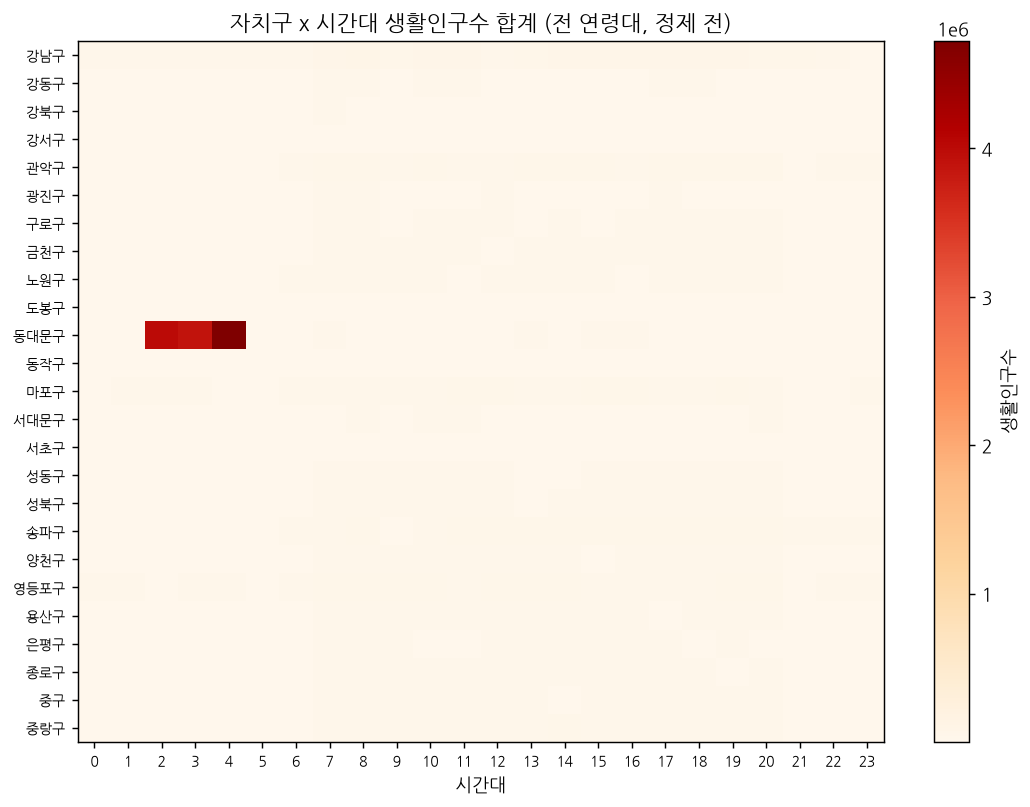
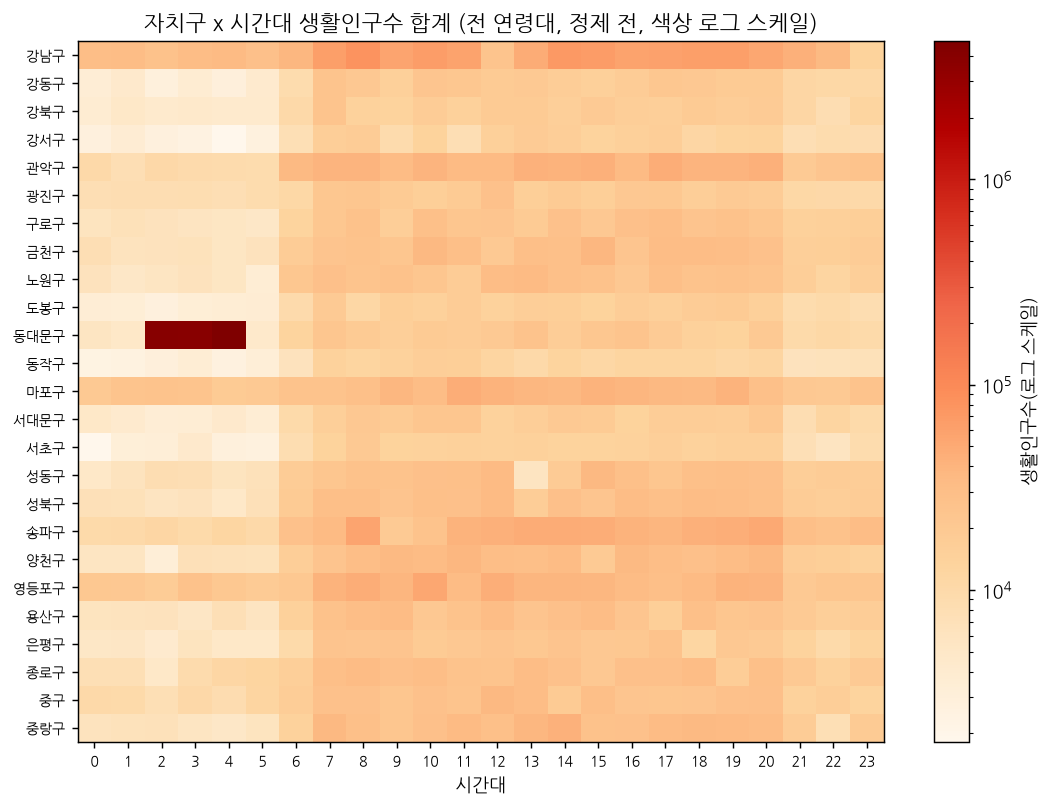
반대결과 수용 조항 적용, 품질진단·정제순서 보고서화, 시각화 2종 추가
- 00_가설_질문정의.md / report: 관악구·영등포구 반대결과에 조항을 적용한 판정 추가
- report: 컬럼 자료형 표, 6대 품질진단 표, 정제 원칙·순서 표를 섹션 3·4 앞부분에 삽입
- 정제로그: 전체적용 vs 범위한정 정제 기준("명백한 오류 교정 vs 모르는 값 추정") 설명 추가
- AI활용기록: STEP② 콤마/'-' 전수확인 관련 기록 추가
- 노트북: 히트맵 색상 스케일 선형→로그 수정, STEP②에 콤마/'-' 전수확인 코드 추가, 결론 셀에 반대결과 조항 적용 문단 추가
- figures: 분모보정 전후 순위변동 리더보드(13), 이슈별 추적표 카드형 시각화(14) 추가
- slides: 정제 추적표 html/png 추가

diff --git a/slides/정제_추적표.html b/slides/정제_추적표.html
@@ -1,0 +1,206 @@
+<title>정제 단계별 이슈 추적표</title>
+<link rel="preconnect" href="https://fonts.googleapis.com">
+<link rel="stylesheet" href="https://fonts.googleapis.com/css2?family=IBM+Plex+Sans+KR:wght@400;500;600;700&family=IBM+Plex+Mono:wght@500;600&display=swap">
+<style>
+/* Layout: 16:9 slide — 왼쪽 단계별 색 구분 표, 오른쪽 A~E 해설 레일. 발표 자료용으로 밝은 단일 테마. */
+:root {
+  color-scheme: light;
+  --paper: #fbfbfa;
+  --ink: #1d2430;
+  --muted: #6b7280;
+  --faint: #c3c8cf;
+  --rule: #e3e6ea;
+  /* stage colors */
+  --s1: #5b6472;  --s1-bg: #eef0f3;  --s1-tint: #f6f7f8;
+  --s2: #2f5fb3;  --s2-bg: #e3ecfb;  --s2-tint: #f3f7fe;
+  --s3: #1f8a5b;  --s3-bg: #ddf3e8;  --s3-tint: #f1faf5;
+  /* highlight semantics */
+  --ok: #1f8a5b;  --ok-bg: #c9eedb;
+  --keep: #a86400; --keep-bg: #fde9c4;
+  --hot: #c2412d;  --hot-bg: #fbe0da;
+  --f-sans: "IBM Plex Sans KR", "Malgun Gothic", "Apple SD Gothic Neo", system-ui, sans-serif;
+  --f-num: "IBM Plex Mono", ui-monospace, Consolas, monospace;
+}
+body { background: var(--paper); color: var(--ink); font-family: var(--f-sans); padding-inline: 16px; padding-block: 16px; }
+.frame { overflow-x: auto; }
+.slide { width: 1600px; height: 900px; margin: 0 auto; box-sizing: border-box; padding: 40px 56px 28px; background: var(--paper);
+  display: grid; grid-template-rows: auto 1fr auto; gap: 20px; }
+
+header { display: grid; gap: 14px; }
+.eyebrow { font-size: 15px; font-weight: 600; letter-spacing: .08em; color: var(--muted); margin: 0 0 8px; }
+h1 { white-space: nowrap; font-size: 36px; font-weight: 700; margin: 0; letter-spacing: -.01em; text-wrap: balance; }
+h1 em { font-style: normal; color: var(--s3); }
+.legend { display: flex; gap: 22px; font-size: 15px; color: var(--ink); flex-wrap: wrap; }
+.legend span { display: inline-flex; align-items: center; gap: 8px; }
+.sw { width: 30px; height: 20px; border-radius: 4px; display: inline-grid; place-items: center; font: 600 12px var(--f-num); }
+.sw.ok { background: var(--ok-bg); color: var(--ok); box-shadow: inset 0 0 0 2px var(--ok); }
+.sw.keep { background: var(--keep-bg); color: var(--keep); box-shadow: inset 0 0 0 2px var(--keep); }
+.sw.hot { background: var(--hot-bg); color: var(--hot); }
+.sw.z { background: transparent; color: var(--faint); box-shadow: inset 0 0 0 1px var(--rule); }
+
+.body { display: grid; grid-template-columns: 1fr 380px; gap: 32px; min-height: 0; }
+
+table { width: 100%; border-collapse: separate; border-spacing: 0; font-variant-numeric: tabular-nums; }
+th, td { text-align: center; }
+thead .stage th { font-size: 17px; font-weight: 700; color: #fff; padding: 10px 8px; position: relative; }
+thead .stage th.blank { background: transparent; }
+.st1 { background: var(--s1); border-radius: 10px 10px 0 0; }
+.st2 { background: var(--s2); border-radius: 10px 10px 0 0; }
+.st3 { background: var(--s3); border-radius: 10px 10px 0 0; }
+.stage small { display: block; font-weight: 500; font-size: 13px; opacity: .85; margin-top: 2px; }
+thead .sub th { font-size: 13.5px; font-weight: 600; padding: 8px 4px; line-height: 1.25; }
+.sub .c1 { background: var(--s1-bg); color: var(--s1); }
+.sub .c2 { background: var(--s2-bg); color: var(--s2); }
+.sub .c3 { background: var(--s3-bg); color: var(--s3); }
+.gap { width: 14px; padding: 0 !important; background: transparent !important; }
+
+tbody th { text-align: left; font-size: 16px; font-weight: 600; padding: 0 14px 0 4px; white-space: nowrap; border-bottom: 1px solid var(--rule); }
+tbody th.child { font-weight: 500; color: var(--muted); padding-left: 22px; }
+tbody tr.ref th, tbody tr.ref td { color: var(--muted); font-weight: 500; border-bottom: 2px solid var(--faint); }
+tbody tr.ref th small { font-weight: 500; font-size: 12px; margin-left: 6px; }
+tbody td { font: 500 19px var(--f-num); height: 45px; padding: 0 6px; border-bottom: 1px solid var(--rule); position: relative; }
+tbody td.c1 { background: var(--s1-tint); }
+tbody td.c2 { background: var(--s2-tint); }
+tbody td.c3 { background: var(--s3-tint); }
+td.in { font-weight: 600; }
+td.z { color: var(--faint); font-weight: 500; }
+td.dot { color: var(--faint); }
+.pill { display: inline-grid; place-items: center; min-width: 54px; height: 34px; padding: 0 8px; border-radius: 8px; box-sizing: border-box; }
+td.ok .pill { background: var(--ok-bg); color: var(--ok); box-shadow: inset 0 0 0 2px var(--ok); font-weight: 600; }
+td.keep .pill { background: var(--keep-bg); color: var(--keep); box-shadow: inset 0 0 0 2px var(--keep); font-weight: 600; }
+td.hot .pill { background: var(--hot-bg); color: var(--hot); font-weight: 600; }
+.badge { position: absolute; top: 3px; right: 3px; width: 19px; height: 19px; border-radius: 50%; background: var(--ink); color: #fff;
+  font: 700 11.5px/19px var(--f-sans); text-align: center; }
+.flow { font: 600 13px var(--f-sans); color: var(--muted); }
+
+aside { display: flex; flex-direction: column; gap: 9px; min-width: 0; }
+aside h2 { font-size: 15px; font-weight: 700; letter-spacing: .08em; color: var(--muted); margin: 0 0 2px; }
+.note { display: grid; grid-template-columns: 26px 1fr; gap: 12px; align-items: start; padding: 9px 14px; border-radius: 10px; background: #fff; border: 1px solid var(--rule); }
+.note b.k { width: 26px; height: 26px; border-radius: 50%; background: var(--ink); color: #fff; display: grid; place-items: center; font-size: 13px; }
+.note p { margin: 0; font-size: 14px; line-height: 1.45; }
+.note p strong { font-weight: 700; }
+.note .t { display: block; font-weight: 700; font-size: 15.5px; margin-bottom: 3px; }
+.note.ok { border-color: var(--ok); }
+.note.keep { border-color: var(--keep); }
+.note .t.ok { color: var(--ok); } .note .t.keep { color: var(--keep); } .note .t.hot { color: var(--hot); }
+.eq { font-family: var(--f-num); font-weight: 600; background: var(--keep-bg); padding: 1px 6px; border-radius: 4px; white-space: nowrap; }
+
+footer { display: flex; justify-content: space-between; gap: 24px; font-size: 13px; color: var(--muted); border-top: 1px solid var(--rule); padding-top: 12px; }
+footer code { font-family: var(--f-num); color: var(--ink); }
+</style>
+
+<div class="frame">
+<div class="slide">
+  <header>
+    <div>
+      <p class="eyebrow">STEP④ 정제 · 이슈별 건수 단계별 추적 · 범위 = 15·16·17시</p>
+      <h1>범위 안 문제는 <em>모두 0건</em>으로, 범위 밖은 이유를 남기고 그대로</h1>
+    </div>
+    <div class="legend">
+      <span><i class="sw ok">0</i>정제로 해결</span>
+      <span><i class="sw keep">18</i>범위 밖 · 의도적으로 유지</span>
+      <span><i class="sw hot">7</i>결과를 왜곡하는 값</span>
+      <span><i class="sw z">0</i>원래 없음</span>
+    </div>
+  </header>
+
+  <div class="body">
+    <table id="t">
+      <thead>
+        <tr class="stage">
+          <th class="blank"></th>
+          <th colspan="3" class="st1">① 원본<small>3,860행</small></th>
+          <th class="gap"></th>
+          <th colspan="3" class="st2">② 중복 제거 후<small>3,600행 · 260행 제거</small></th>
+          <th class="gap"></th>
+          <th colspan="3" class="st3">③ 정제 후 (잔여)<small>음수 복원 · 범위 안 결측 보정</small></th>
+        </tr>
+        <tr class="sub">
+          <th class="blank" style="text-align:left;padding-left:4px;color:var(--muted)">이슈</th>
+          <th class="c1">전체</th><th class="c1">범위<br>전 연령(분모)</th><th class="c1">범위<br>10대(분자)</th>
+          <th class="gap"></th>
+          <th class="c2">전체</th><th class="c2">범위<br>전 연령(분모)</th><th class="c2">범위<br>10대(분자)</th>
+          <th class="gap"></th>
+          <th class="c3">전체</th><th class="c3">범위<br>전 연령(분모)</th><th class="c3">범위<br>10대(분자)</th>
+        </tr>
+      </thead>
+      <tbody></tbody>
+    </table>
+
+    <aside>
+      <h2>읽는 법</h2>
+      <div class="note"><b class="k">A</b><p><span class="t hot">중복 7행이 10대 합계를 부풀림</span>범위 안 10대 중복 7행을 지우지 않으면 절대(10대 합계)가 그만큼 커집니다. 제거 후 75행 = 25구 × 3시간대로 기대값과 일치.</p></div>
+      <div class="note"><b class="k">B</b><p><span class="t">10대 결측은 처음부터 0건</span>빈칸·<code>'-'</code> 모두 범위 안 10대는 0건이라 절대(분자)는 보정할 것이 없습니다. 10대 <code>'-'</code> 35건은 전부 범위 밖.</p></div>
+      <div class="note ok"><b class="k">C</b><p><span class="t ok">분모 결측 22건 → 0건</span>빈칸 13 + <code>'-'</code> 9건이 비중의 분모(전 연령)에 있어, 같은 구·연령대의 15~17시 평균으로 보정했습니다. 안 하면 비중이 부풀려집니다.</p></div>
+      <div class="note keep"><b class="k">D</b><p><span class="t keep">남은 결측 159건은 전부 범위 밖</span><span class="eq">180 − 22 + 1 = 159</span> (−9990을 결측으로 바꾼 1건 포함). 결과에 쓰이지 않아 추정값으로 채우지 않았습니다.</p></div>
+      <div class="note keep"><b class="k">E</b><p><span class="t keep">동대문구 새벽 고값 18건은 수정 안 함</span>2~4시에만 있는 단위 오류 추정값. 15~17시 밖이라 절대·비중 어디에도 영향이 없어 그대로 둡니다.</p></div>
+    </aside>
+  </div>
+
+  <footer>
+    <span><code>·</code> 숫자 변환 후에는 빈칸과 <code>'-'</code>를 구분할 수 없어 따로 세지 않음(결측 합계 줄로 확인) &nbsp;|&nbsp; <code>0</code> 센 결과 남은 게 없음</span>
+    <span>데이터: 교육용 가공 데이터(오류 의도 삽입), 기준일 2026-04-15 하루 · 14조 미션D</span>
+  </footer>
+</div>
+</div>
+
+<script>
+// [이슈, 하위행 여부, ①전체, ①범위, ①10대, ②전체, ②범위, ②10대, ③전체, ③범위, ③10대]  — logs/정제로그.md 5절과 동일
+const rows = [
+  ["(참고) 행 수", "ref", 3860, 485, 82, 3600, 450, 75, 3600, 450, 75],
+  ["완전 중복 행(2회째)", "", 260, 35, 7, 0, 0, 0, 0, 0, 0],
+  ["결측 합계", "", 195, 27, 0, 180, 22, 0, 159, 0, 0],
+  ["└ 빈칸", "child", 95, 15, 0, 89, 13, 0, "·", "·", "·"],
+  ["└ '-'", "child", 100, 12, 0, 91, 9, 0, "·", "·", "·"],
+  ["음수(부호 오류 추정)", "", 23, 2, 0, 22, 2, 0, 0, 0, 0],
+  ["특수코드 −9990", "", 2, 0, 0, 1, 0, 0, 0, 0, 0],
+  ["고값(>10만, 동대문 새벽)", "", 19, 0, 0, 18, 0, 0, 18, 0, 0],
+  ["콤마 포함(형식)", "", 360, 50, 6, 338, 47, 5, 0, 0, 0],
+];
+// 강조 셀: [행, 열(0~8)] → 종류 · 배지
+const marks = {
+  "1,2": ["hot", "A"],
+  "2,2": ["", "B"],
+  "2,7": ["ok", "C"],
+  "2,6": ["keep", "D"],
+  "7,6": ["keep", "E"],
+};
+const fmt = v => typeof v === "number" ? v.toLocaleString("ko-KR") : v;
+const tb = document.querySelector("#t tbody");
+rows.forEach((r, ri) => {
+  const [label, kind, ...vals] = r;
+  const tr = document.createElement("tr");
+  if (kind === "ref") tr.className = "ref";
+  const th = document.createElement("th");
+  th.textContent = label;
+  if (kind === "child") th.className = "child";
+  if (kind === "ref") th.innerHTML = '(참고) 행 수<small>기대값 3,600 / 450 / 75</small>';
+  tr.appendChild(th);
+  vals.forEach((v, ci) => {
+    if (ci === 3 || ci === 6) { const g = document.createElement("td"); g.className = "gap"; tr.appendChild(g); }
+    const td = document.createElement("td");
+    const stage = Math.floor(ci / 3) + 1, sub = ci % 3;
+    const cls = ["c" + stage];
+    let kindMark = "";
+    if (kind !== "ref") {
+      if (v === "·") cls.push("dot");
+      else if (v === 0) {
+        // 앞 단계에서 0이 아니었는데 이 단계에서 0이 됐으면 '정제로 해결'
+        if (stage > 1 && typeof vals[ci - 3] === "number" && vals[ci - 3] > 0) kindMark = "ok";
+        else cls.push("z");
+      } else {
+        if (sub > 0) cls.push("in");
+        if (stage === 3) kindMark = "keep";
+      }
+    }
+    const m = marks[ri + "," + ci];
+    if (m && m[0]) kindMark = m[0];
+    if (kindMark) cls.push(kindMark);
+    td.className = cls.join(" ");
+    td.innerHTML = kindMark ? `<span class="pill">${fmt(v)}</span>` : fmt(v);
+    if (m) td.insertAdjacentHTML("beforeend", `<span class="badge">${m[1]}</span>`);
+    tr.appendChild(td);
+  });
+  tb.appendChild(tr);
+});
+</script>

diff --git a/report/4주차_14조_팀보고서.md b/report/4주차_14조_팀보고서.md
@@ -40,6 +40,17 @@
 
 ## 3. 탐색 요약
 
+### 컬럼 자료형(원본 기준)
+> `docs/data_description.md` 2절과 동일. 2절의 "측정 척도" 표와는 다른 표로, 이건 정제 전 원본이 실제로 어떤 자료형으로 저장돼 있는지를 보여준다.
+
+| 컬럼명(원본 표기) | 설명 | 데이터 타입 | 예시값 | 비고 |
+|---|---|---|---|---|
+| `기준일자 ` | 데이터 기준 날짜 | 문자열 | `2026-04-15` | 컬럼명 끝에 공백 포함 |
+| ` 자치구` | 서울시 25개 자치구 명 | 문자열 | `강남구`, `서초구` | 컬럼명 앞에 공백 포함 |
+| `시간대` | 0~23시, 1시간 단위 | 정수 | `0` ~ `23` | 공백 없음 |
+| `연령대 ` | 연령대 구간 (6종) | 문자열 | `10대`, `60대이상` | 컬럼명 끝에 공백 포함 |
+| `생활인구수` | 해당 시간·자치구·연령대의 추정 생활인구 수(명) | 문자열(숫자가 아님) | `3287`, `3,909`, `-` | 콤마·결측·'-' 혼재로 숫자 타입이 아님 |
+
 - **첫인상**: 3,860행 × 5열. 자치구 25개·시간대 0~23시·연령대 6종(10·20·30·40·50·60대이상) 모두 결측 없이 존재. 생활인구수만 콤마·'-'·빈칸이 섞여 문자열(object)로 읽힘.
 - **이상 징후(7개 확인, 최소 3개 요건 충족)**:
   1. 생활인구수 결측(빈칸) 95건 — 20·40·60대이상에서만 발생
@@ -53,7 +64,36 @@
 
 ## 4. 정제 로그
 
-> 범위 = **15·16·17시(3개 시간대)**. "15~18시"는 09~18시 근무가 9시간(9~17시, 18시 제외)인 것과 같은 논리로 18시 버킷은 범위 밖으로 제외했다(`00_가설_질문정의.md` 참고). 절대(분자)는 10대, 비중(분모)은 같은 시간대 전 연령대다. 정제 원칙은 "이슈를 전부 고치지 않는다 — 범위 안에 영향이 있을 때만 고치고, 손대지 않은 것도 이유를 남긴다."
+### 4-1. 데이터 품질 진단 (6대 기준) — 정제 전
+> 아래 표와 다음 순서는 완전성→유일성→유효성→정확성→일관성→적시성, 데이터 품질 6대 기준 순서를 따름(`docs/data_description.md` 3절과 동일. 임의 순서 아님).
+
+| 기준 | 문제 | 건수 | 세부 내용 |
+|---|---|---|---|
+| **완전성** | 생활인구수 결측(빈 칸) | 95건 | 값이 비어 있음(NaN) |
+| **유일성** | 완전 중복 행 | 260건 | (기준일자·자치구·시간대·연령대·생활인구수) 모두 동일한 행이 중복 — 중복에 연루된 행은 총 520행 |
+| **유효성** | 생활인구수 음수 | 25건 | 예: `-9990`(2건, 센서/결측 오류로 추정되는 특수값), 그 외 23건은 `-634` ~ `-7804` 등 일반적인 음수 — 인구수는 음수가 될 수 없음 |
+| **유효성** | 생활인구수 '-' 표시 | 100건 | 숫자가 아닌 `'-'` 문자로 기록됨(비식별 처리 등으로 추정) |
+| **정확성** | 생활인구수 비정상 고값 | 19건 | 전부 **동대문구, 2~4시(새벽)** 구간에서 500,000~800,000 발생. 같은 자치구의 다른 시간대 값은 대부분 1,000~12,000 수준이라 수십~수백 배 차이 — 현실적으로 불가능한 값 |
+| **일관성** | 컬럼명 표기 불일치 | 3개 컬럼 | `기준일자 `, ` 자치구`, `연령대 `에 불필요한 공백 포함 |
+| **일관성** | 생활인구수 표기 방식 혼재 | 360건 | 천단위 구분 콤마(`3,909`)가 포함된 값과 콤마 없는 값(`3287`)이 한 컬럼에 혼재 |
+| **적시성** | 기준일자 범위 | 이상 없음 | 전체 행이 `2026-04-15` 단일 날짜 — 날짜 필터링 불필요 |
+
+### 4-2. 정제 원칙과 순서
+정제 원칙: 이슈를 전부 고치지 않는다 — **범위(15~17시) 안에 영향이 있을 때만 고치고, 손대지 않은 것도 이유를 남긴다.**
+
+| 순서 | 단계 | 하는 일 | 적용 범위 | 이 순서인 이유 |
+|---|---|---|---|---|
+| 0 | 사전 진단 | 범위 기준으로 행 수·이슈 건수를 센다 (데이터는 바꾸지 않음) | - | 범위 안에 영향이 있는지 보고 처리 여부를 정하기 위해 |
+| 1 | 공백 제거 | 컬럼명·값 앞뒤 공백 제거 | 전체 | 이후 코드(groupby·필터)가 깨지지 않게 가장 먼저 |
+| 2 | 숫자 변환 | 콤마 제거 후 숫자형으로 변환(`'-'`·빈칸은 NaN이 됨) | 전체 | 숫자가 되어야 중복·음수·합계를 판단할 수 있고, `1,234`와 `1234` 같은 표기 차이 중복도 잡힘 |
+| 3 | 중복 제거 | 완전 중복 행 제거 | 전체 | 중복 행이 보정 평균을 왜곡하고 합계를 부풀리지 않게(결측 보정보다 먼저) |
+| 4 | 음수 처리 | -9990은 결측, 나머지는 절대값으로 복원 | 전체(규칙) | 음수를 먼저 복원해야 다음 단계의 보정 평균에 정상값만 들어감 |
+| 5 | 결측 보정 | 같은 구·연령대의 범위 내 다른 시간대 평균으로 채움 | **범위(15~17시) 안만** | 중복·음수를 정리한 뒤에 평균을 내야 정확 |
+| 6 | 손대지 않는 것 확인 | 동대문구 고값·기준일자 등을 확인만 함 | - | 범위 안 0건임을 assert로 확인 |
+| 7 | 최종 점검 | 필터 전후 행 수, assert, 정제 로그 | - | 0행 무음 실패와 숫자 불일치를 잡기 위해 |
+
+### 4-3. 정제 처리 로그
+> 범위 = **15·16·17시(3개 시간대)**. "15~18시"는 09~18시 근무가 9시간(9~17시, 18시 제외)인 것과 같은 논리로 18시 버킷은 범위 밖으로 제외했다(`00_가설_질문정의.md` 참고). 절대(분자)는 10대, 비중(분모)은 같은 시간대 전 연령대다.
 
 | # | 처리 | 건수 | 근거 | 영향 (채택/수정/기각 + 이유) |
 |---|---|---|---|---|
@@ -92,6 +132,8 @@
 절대 상위5(강남·송파·관악·영등포·노원)와 비중 상위5(영등포·노원·중랑·서대문·금천)에 **둘 다** 들어가는 자치구는 **노원구·영등포구** 뿐이다. 범위를 중앙값 이상으로 넓히면 구로·금천·성북·양천·종로·중랑까지 추가 후보 풀에 들지만, 상위5 교차만큼 강하지는 않다.
 
 **가설 검증**: 절대 상위3(강남·송파·관악) 중 가설이 예상한 학원가(강남·양천·노원)는 강남 1곳만 포함됐다(양천 9위, 노원 5위) — "다수 포함될 것"이라는 예측은 틀렸다. 송파(2위)는 "번화한 학원가" 범주로 이미 분류해 둔 곳이라 설명 가능하지만, 관악구(3위)는 학원가 목록에 전혀 없던 반대결과다. 반면 비중은 가설이 잘 맞았다 — 강남(19위, 15.44%)·송파(17위, 15.88%) 모두 비중은 낮고, 노원은 2위(18.80%)로 "번화한 학원가일수록 비중은 희석된다"는 메커니즘이 그대로 확인됐다. 다만 비중 1위는 가설에 없던 영등포구(18.86%)였다.
+
+**반대 결과 수용 조항 적용**: 관악구(절대 3위)·영등포구(비중 1위)는 `00_가설_질문정의.md` 4절에서 미리 정해둔 학원가 목록(강남·양천·노원) 밖의 반대결과다 — 조항에 따라 "학원가 밀집" 단일설명을 기각하고, 공원·대형 상업시설·환승거점·산업단지 통근 인구 등 비학업적 체류 요인과의 복합설명으로 바꾸는 것을 받아들인다. 다만 "왜" 이 두 자치구에 10대가 몰렸는지는 이 데이터(학원·상업시설 정보 없음)로는 증명할 수 없어, 추측이 아니라 검증 불가능한 한계로 남긴다.
 
 ### 5-4. 결론 3요소
 - **권고**: **노원구·영등포구**를 확정 후보로, 세 번째는 판단보류로 둔다.

diff --git a/logs/AI활용기록.md b/logs/AI활용기록.md
@@ -8,6 +8,7 @@
 | (예시) 2026-10-02 | 홍길동 | "이 CSV의 품질을 6대 기준으로 점검하고 기준별 문제 건수를 표로 보고해줘" | 완전성/유일성/유효성/정확성/일관성/적시성 기준별 문제 건수표 (결측 95, 중복 260쌍, 음수 25 등) | 직접 pandas로 isnull().sum(), duplicated().sum() 등을 재실행해 건수가 일치하는지 확인 | 채택 (건수 일치 확인됨) |
 | 2026-10-08 | ________ | "가설에 쓸 강남·양천·노원·송파가 실제로 학원 밀집/주거 비중이 높다고 알려진 자치구인지 신뢰할 수 있는 자료로 확인해줘" | 웹검색으로 학원가 보도 3건(양천구 학원수 순위, 강남구 대치동 규모, 노원구 중계동 학원가) + 주간인구지수·베드타운 보도 2건(서울시 미디어허브, 노원·도봉 동북권) — 출처 URL은 `00_가설_질문정의.md` 3-1절에 기록 | 기사 원문 5건을 직접 열어 수치·주체 확인. "학원 밀집"과 "베드타운(주간인구지수)"이 서로 다른 자료라는 점을 확인하고, CSV로는 학원가 여부 자체를 검증할 수 없다는 한계를 별도로 명시 | 채택 (가설 수립의 사전 근거로만 사용 — CSV 분석 결과 해석에는 쓰지 않기로 결정) |
 | 2026-10-09 | ________ | "STEP③ 탐색(첫인상·이상징후·정제 전 1차집계)을 '대상·작업·기준·보고' 4요소로 프롬프트를 작성하고, docs/data_description.md에 적힌 7가지 이상 징후(결측·중복·음수·'-'·고값·컬럼명공백·콤마혼재)를 전부 코드로 직접 확인해줘" | 7가지 이상 징후를 각각 pandas로 확인하는 코드 셀(notebook cell-7) — 결측 95건(20·40·60대이상), 중복 260쌍(전부 2회), 음수 25건(−9990 2건 포함), '-' 100건(10·30·50대), 고값 19건(동대문구 2~4시), 원본 컬럼명 공백 3개, 콤마 혼재 360건 | venv로 직접 실행해 7개 항목 전부 docs/data_description.md 수치와 정확히 일치하는지 확인 | 채택 (전부 일치 확인됨) |
+| 2026-10-08 | ________ | [STEP② 자료구조 파악] "생활인구수 컬럼 값을 살펴보면서 콤마·'-' 같은 비정상 표기가 있는지 확인해줘 — docs/data_description.md를 작성할 때 이미 콤마 혼재 360건·'-' 100건을 찾아놓았으니 그 배경지식을 반영해서 짜도 된다" | 콤마 포함 예시 2건 + '-' 존재 여부(True)만 보여주는 코드. 예시·존재여부만으로는 전체 규모를 알 수 없다는 지적을 받아 콤마·'-' 전체 건수를 세는 전수 확인 코드를 추가함 | 직접 실행해 콤마 전수 360건, '-' 전수 100건이 data_description.md·STEP③ 이상징후 셀(3c0685ff) 수치와 일치하는지 확인 | 채택 (360건·100건 일치 확인됨). 코드 주석에 "프로젝트 세팅 단계의 배경지식을 토대로 작성"이라 남겨, STEP②가 완전한 블라인드 탐색이 아니라 사전 진단(docs/data_description.md)을 참고해 작성됐음을 숨기지 않고 투명하게 기록 |
 | 2026-10-09 | ________ | [STEP④-사전 진단] 범위(10대만 / 연령 제한 없음) 행 수와 이슈별 단계 추적<br>"[대상] 원본 df와 미션 범위(15~17시)<br>[작업] 정제 전에 데이터는 바꾸지 않고 범위 기준 행 수를 두 가지로 센다: ①15~17시·10대(절대 분자) ②15~17시·연령 제한 없음(비중 분모). 이슈(중복·결측 빈칸·'-'·음수·-9990·고값·콤마)별 건수를 원본 전체 → 범위(전 연령·10대) → 중복 제거 후 → 정제 후 잔여로 같은 기준으로 세어 단계별 추적표로 보여준다<br>[기준] 기존 10대만 필터링은 지우지 않고 유지. 필터 전후 행 수가 기대값(25×3×6=450, 25×3=75)과 맞는지 assert, 0행이면 멈춤<br>[보고] 단계별 추적표, 필터 전후 행 수, 정제 로그에 들어갈 '원본 전체 → 범위 → 중복 제거 후' 건수" | 범위 행 수 485(전 연령)·82(10대) → 중복 제거 후 450·75(기대값과 일치). 이슈별 추적: 빈칸 95→범위 15→중복 제거 후 13, '-' 100→12→9, 중복 260→35(10대 7), 음수 23→2→2, 고값 19→0. 범위 안 10대 결측은 모든 단계에서 0건 | 직접 실행해 추적표의 위 숫자가 나오는지 확인. 원본 전체 건수(95·100·260·25·19·360)가 STEP③ 7개 이상 징후 셀 결과와 같은지 대조 | 채택 (venv로 끝까지 다시 실행해 위 숫자 전부 일치 확인됨) |
 | 2026-10-09 | ________ | [STEP④-열별①] 컬럼명·값 공백<br>"[대상] 컬럼명 5개, 문자열 컬럼(기준일자·자치구·연령대)의 값<br>[작업] 앞뒤 공백을 점검하고 제거(strip)<br>[기준] 원본 df는 보존하고 clean에만 적용. 컬럼명에 공백이 남으면 assert로 멈추게<br>[보고] 공백이 있던 컬럼명 수, 제거된 값 셀 수, 처리 후 자치구·연령대 고유값 수" | 컬럼명 3개(`기준일자 `, ` 자치구`, `연령대 `)에 공백, 값에는 공백 0셀. 자치구 25개·연령대 6개 확인하는 셀(STEP④ A) | 직접 실행해 컬럼명 3개 / 값 0셀 / 25·6이 나오는지 확인. 원본 CSV 헤더와 대조 | 채택 (컬럼명 3개·값 0셀·자치구 25·연령대 6 전부 일치 확인됨) |
 | 2026-10-09 | ________ | [STEP④-열별②] 생활인구수 콤마→숫자<br>"[대상] 생활인구수 컬럼<br>[작업] 콤마 제거 후 숫자형으로 변환. 변환 전에 콤마·'-'·빈칸 건수를 먼저 센다<br>[기준] errors='coerce'가 예상 밖 값을 조용히 NaN으로 바꾸지 않았는지(NaN 건수 = '-' + 빈칸) assert로 확인<br>[보고] 콤마 건수, 변환 후 dtype, NaN 건수와 내역" | 콤마 360건 제거, dtype float64(결측 NaN 때문에 int가 아님), NaN 195건 = '-' 100 + 빈칸 95. 콤마 표기는 천단위 구분일 뿐이라 지우고 숫자로 바꾸는 것이 적절하다는 설명 | 직접 실행해 360 / 195 = 100+95가 나오는지, assert가 통과하는지 확인 | 채택 (콤마 360건·NaN 195건=100+95 일치, assert 통과 확인됨) |

diff --git a/00_가설_질문정의.md b/00_가설_질문정의.md
@@ -51,6 +51,15 @@
 ## 4. 반대 결과 수용 여부 (필수 1줄 — 보고서에도 그대로 기재)
 > "만약 10대 절대 합계 상위 자치구가 위 근거 자료의 학원가(강남구·양천구·노원구)와 겹치지 않고, 학원 밀집도가 낮다고 알려진 자치구가 상위로 나온다면, '학원가 밀집 가설'을 기각하고 공원·대형 상업시설·환승거점·산업단지 통근 인구 등 비학업적 체류 요인으로 설명을 바꾸는 것을 받아들인다. 비중 지표에서도 노원구가 아닌 전혀 다른 특성의 자치구가 상위로 나온다면 같은 방식으로 설명을 바꾼다. 또한 이 데이터가 2026-04-15 단 하루·교육용으로 오류가 삽입된 가공 데이터라는 한계로 인해 실제 경향과 다를 수 있음을 결론에 명시한다."
 
+### 4-1. 적용 결과 (정제 후 최종 데이터, 2026-10-09)
+> 위 조항을 실제 최종 집계(`report/4주차_14조_팀보고서.md` 5절, 정제 후)에 적용한 판정.
+
+- **절대 지표**: 상위3 = 강남(1)·송파(2)·관악(3). 강남만 학원가 목록(강남·양천·노원)과 일치하고, 송파는 3절에서 이미 "희석 예상군"으로 분류해 둔 자치구라 가설 설명 범위 안이다. **관악구(3위)는 학원가·희석군 어디에도 없던 반대결과** → 조항 발동.
+- **비중 지표**: 상위5 = 영등포(1)·노원(2)·중랑(3)·서대문(4)·금천(5). 노원은 예측대로 2위에 들어 가설이 틀리지 않았지만, **1위는 노원이 아니라 가설에 없던 영등포구** → 조항 발동.
+- **종합 판정**: 완전 기각이 아니라 **부분 기각**이다 — 강남(절대1위)·노원(비중2위) 적중, "번화한 학원가일수록 비중이 희석된다"는 핵심 메커니즘도 그대로 확인됐다. 다만 관악구·영등포구라는 목록 밖 반대결과가 상위에 들었으므로, 조항에 따라 "학원가" 단일설명을 "학원가 + 비학업적 체류 요인(공원·대형 상업시설·환승거점·산업단지 통근 등)"의 복합설명으로 바꾸는 것을 받아들인다.
+- **경계**: "왜" 관악구·영등포구에 10대가 몰렸는지(실제로 환승거점·상업시설 때문인지)는 이 CSV(학원·상업시설 데이터 없음)로는 증명할 수 없다 — 추측이 아니라 **검증 불가능한 한계**로 남긴다(3-1절 ℹ 각주와 같은 원칙).
+- 데이터 자체의 한계(단 하루·교육용 오류 삽입)는 보고서 5-4 "한계" 1번에 반영됨.
+
 ## 5. (참고) 지금까지 CSV 사전 진단에서 확인된 주의사항
 `docs/data_description.md`에서 이미 아래가 확인되었습니다 — 정제(STEP④) 전에 미션 범위(15~18시·10대)에 실제로 영향을 주는지 반드시 교차 확인하세요.
 - 생활인구수 결측(빈칸 95건 + '-' 100건) — 연령대별로 서로 다른 패턴

diff --git a/logs/정제로그.md b/logs/정제로그.md
@@ -45,6 +45,8 @@
 | 완전 중복 행 제거 | 행 단위 문제. 범위 밖 중복도 같은 원인이라 함께 제거 |
 | 음수 규칙(-9990은 결측, 나머지는 절대값) | 규칙의 일관성. 범위 밖 음수 21건은 결과에 영향이 없지만 같이 적용 |
 
+> **왜 기준이 다른가**: 공백·중복·음수는 "이 값 자체가 명백히 틀렸다"는 유효성 문제라 미션 범위와 무관하게 항상 참이다 — 인구수가 음수일 수 없다는 사실은 15~17시에서만 참이고 다른 시간대엔 아닌 게 아니다. 또한 `clean`은 비중 계산(범위 안)뿐 아니라 24시간 히트맵(STEP③ 시각화, 범위 무관)에도 재사용되므로, 범위 밖에 틀린 값을 남겨두면 그 그래프도 오염된다. 반면 바로 아래의 결측 보정(평균으로 채우기)은 "모르는 값을 추정해서 새로 만들어 넣는 것"이라 안 쓰이는 범위까지 채우면 오히려 근거 없는 변경이 늘어난다. 정리하면 **"명백한 오류 교정"(공백·중복·음수)은 전체 적용, "모르는 값 추정"(결측 보정)은 범위 한정**이라는 기준으로 둘을 나눴다.
+
 **범위(15~17시) 안에서만 적용**
 
 | 처리 | 왜 범위 안만인가 |

diff --git a/docs/data_description.md b/docs/data_description.md
@@ -22,6 +22,8 @@
 
 ## 3. 데이터 품질 진단 (6대 기준)
 
+> 아래 표와 3-1절의 나열 순서는 완전성→유일성→유효성→정확성→일관성→적시성, 데이터 품질 6대 기준 순서를 따름(임의 순서 아님). 노트북 STEP③ 이상 징후 셀도 이 순서를 그대로 따라 작성했다.
+
 | 기준 | 문제 | 건수 | 세부 내용 |
 |---|---|---|---|
 | **완전성** | 생활인구수 결측(빈 칸) | 95건 | 값이 비어 있음(NaN) |
